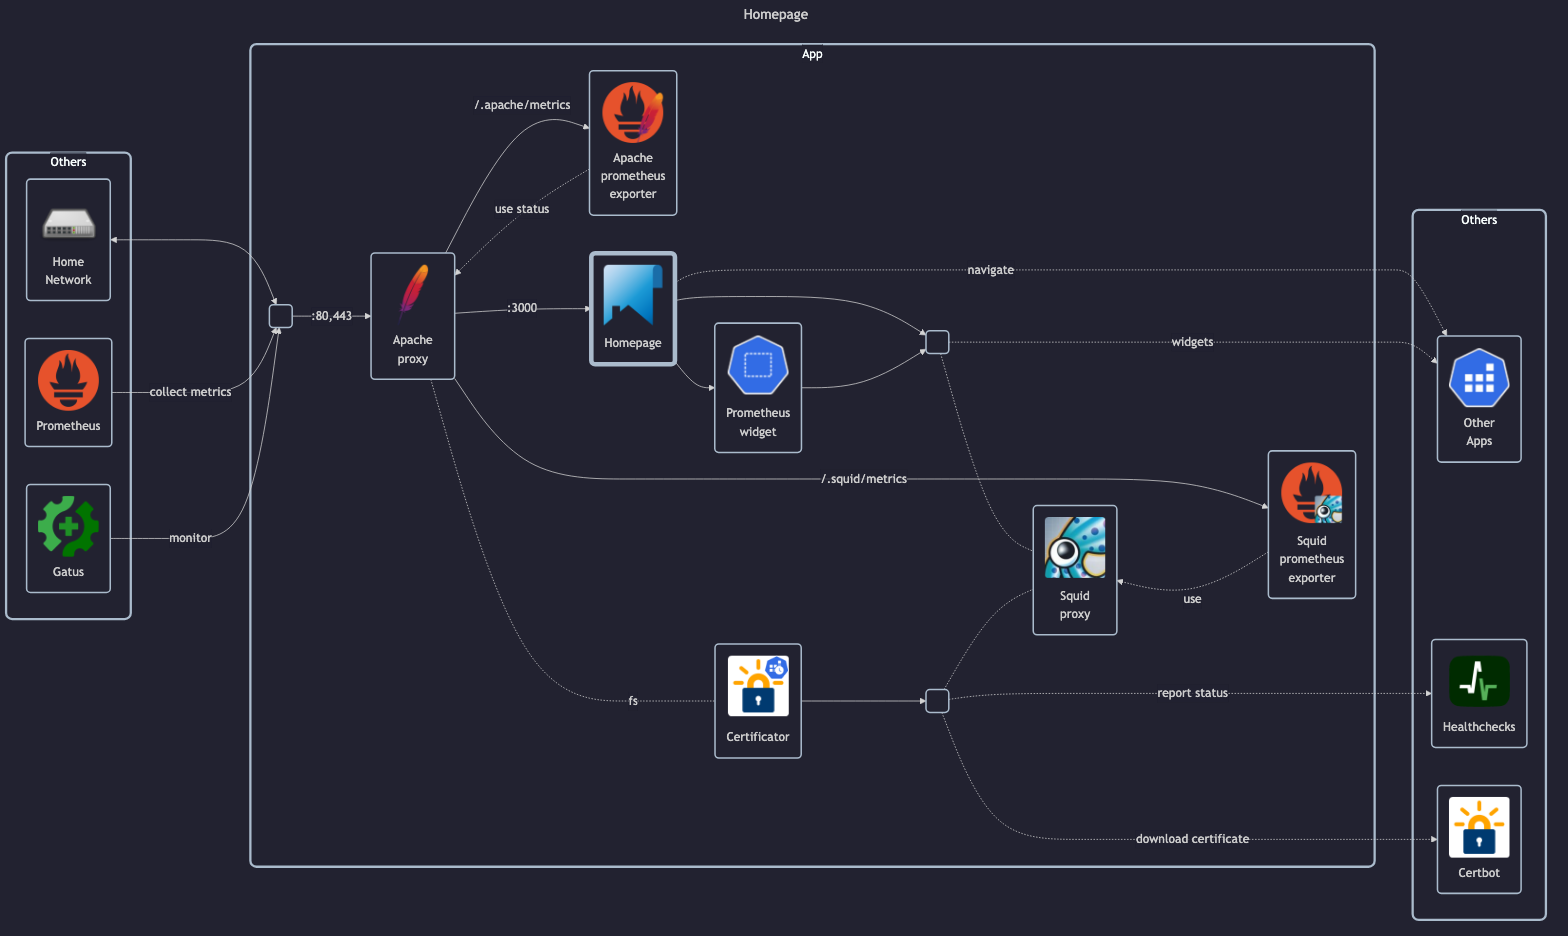
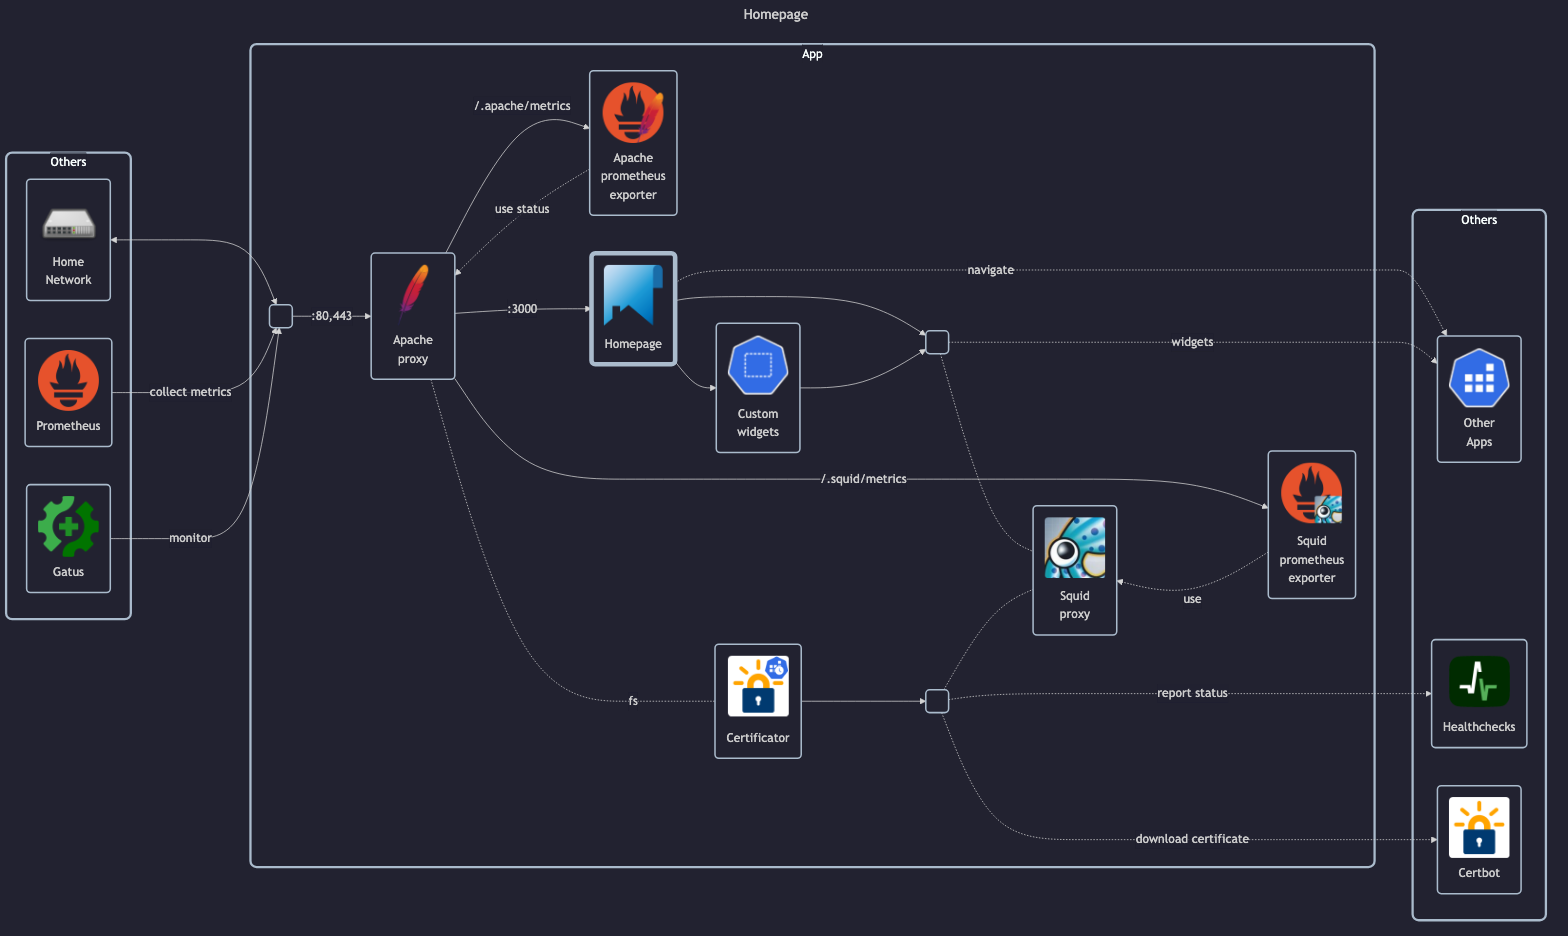
feat: add custom homepage smtp4dev widget

diff --git a/docker-images/custom/homepage-widgets/src/main.ts b/docker-images/custom/homepage-widgets/src/main.ts
@@ -1,0 +1,96 @@
+import fs from 'node:fs';
+import express, { Request, Response } from 'express';
+import axios from 'axios';
+import dotevn from 'dotenv';
+
+if (fs.existsSync('.env')) {
+    dotevn.config({ path: '.env', quiet: true });
+}
+if (!process.env['PROMETHEUS_PASSWORD']) {
+    console.error('PROMETHEUS_PASSWORD unset!');
+    process.exit(1);
+}
+const app = express();
+
+// Healthcheck
+app.get('/.health', (_: Request, response: Response) => {
+    response.sendStatus(200);
+});
+
+// Smtp4dev
+type Smtp4devResponse = {
+    results: [
+        {
+            isRelayed: boolean,
+            deliveredTo: string,
+            id: string,
+            from: string,
+            to: string[],
+            receivedDate: string,
+            subject: string,
+            attachmentCount: number,
+            isUnread: boolean,
+        },
+    ],
+    currentPage: number,
+    pageCount: number,
+    pageSize: number,
+    rowCount: number,
+    firstRowOnPage: number,
+    lastRowOnPage: number,
+};
+app.get('/smtp4dev', async (_: Request, response: Response) => {
+    try {
+        const axiosResponse = await axios.get('https://smtp4dev.home.matejkosiarcik.com/api/messages?page=1&pageSize=1000', {
+            headers: {
+                authorization: `Basic ${Buffer.from(`admin:${process.env['SMTP4DEV_PASSWORD']}`).toString('base64')}`,
+            },
+            maxRedirects: 99,
+        });
+
+        const total = (axiosResponse.data as Smtp4devResponse).results.length;
+        const unread = (axiosResponse.data as Smtp4devResponse).results.filter((el) => el.isUnread === true).length;
+
+        response.status(200);
+        response.send({ total: total, unread: unread });
+    } catch (error) {
+        console.error('Proxy error:', error);
+        response.sendStatus(500);
+    }
+});
+
+// Prometheus
+app.use('/prometheus', async (request: Request, response: Response) => {
+    try {
+        const targetUrl = `https://prometheus.home.matejkosiarcik.com${request.path}`;
+        console.log('prometheus target URL:', targetUrl);
+        const axiosHeaders = {
+            ...request.headers,
+            authorization: `Basic ${Buffer.from(`admin:${process.env['PROMETHEUS_PASSWORD']}`).toString('base64')}`,
+        };
+        delete axiosHeaders['host'];
+
+        const axiosResponse = await axios.request({
+            url: targetUrl,
+            method: request.method,
+            headers: axiosHeaders,
+            data: request.body,
+            responseType: 'stream',
+            validateStatus: () => true,
+            maxRedirects: 0,
+        });
+
+        response.status(axiosResponse.status);
+        for (const [key, value] of Object.entries(axiosResponse.headers)) {
+            response.header(key, value);
+        }
+        axiosResponse.data.pipe(response);
+    } catch (error) {
+        console.error('Proxy error:', error);
+        response.sendStatus(500);
+    }
+});
+
+app.listen(8080, () => {
+    console.log('Server started.');
+});

diff --git a/docker-images/custom/homepage-widgets/src/healthcheck.ts b/docker-images/custom/homepage-widgets/src/healthcheck.ts
@@ -1,7 +1,7 @@
 import axios from 'axios';
 
 (async () => {
-    const response = await axios.get('http://localhost:8080/.widget-prometheus/health', {
+    const response = await axios.get('http://localhost:8080/.health', {
         validateStatus: () => true,
     });
     if (response.status !== 200) {
